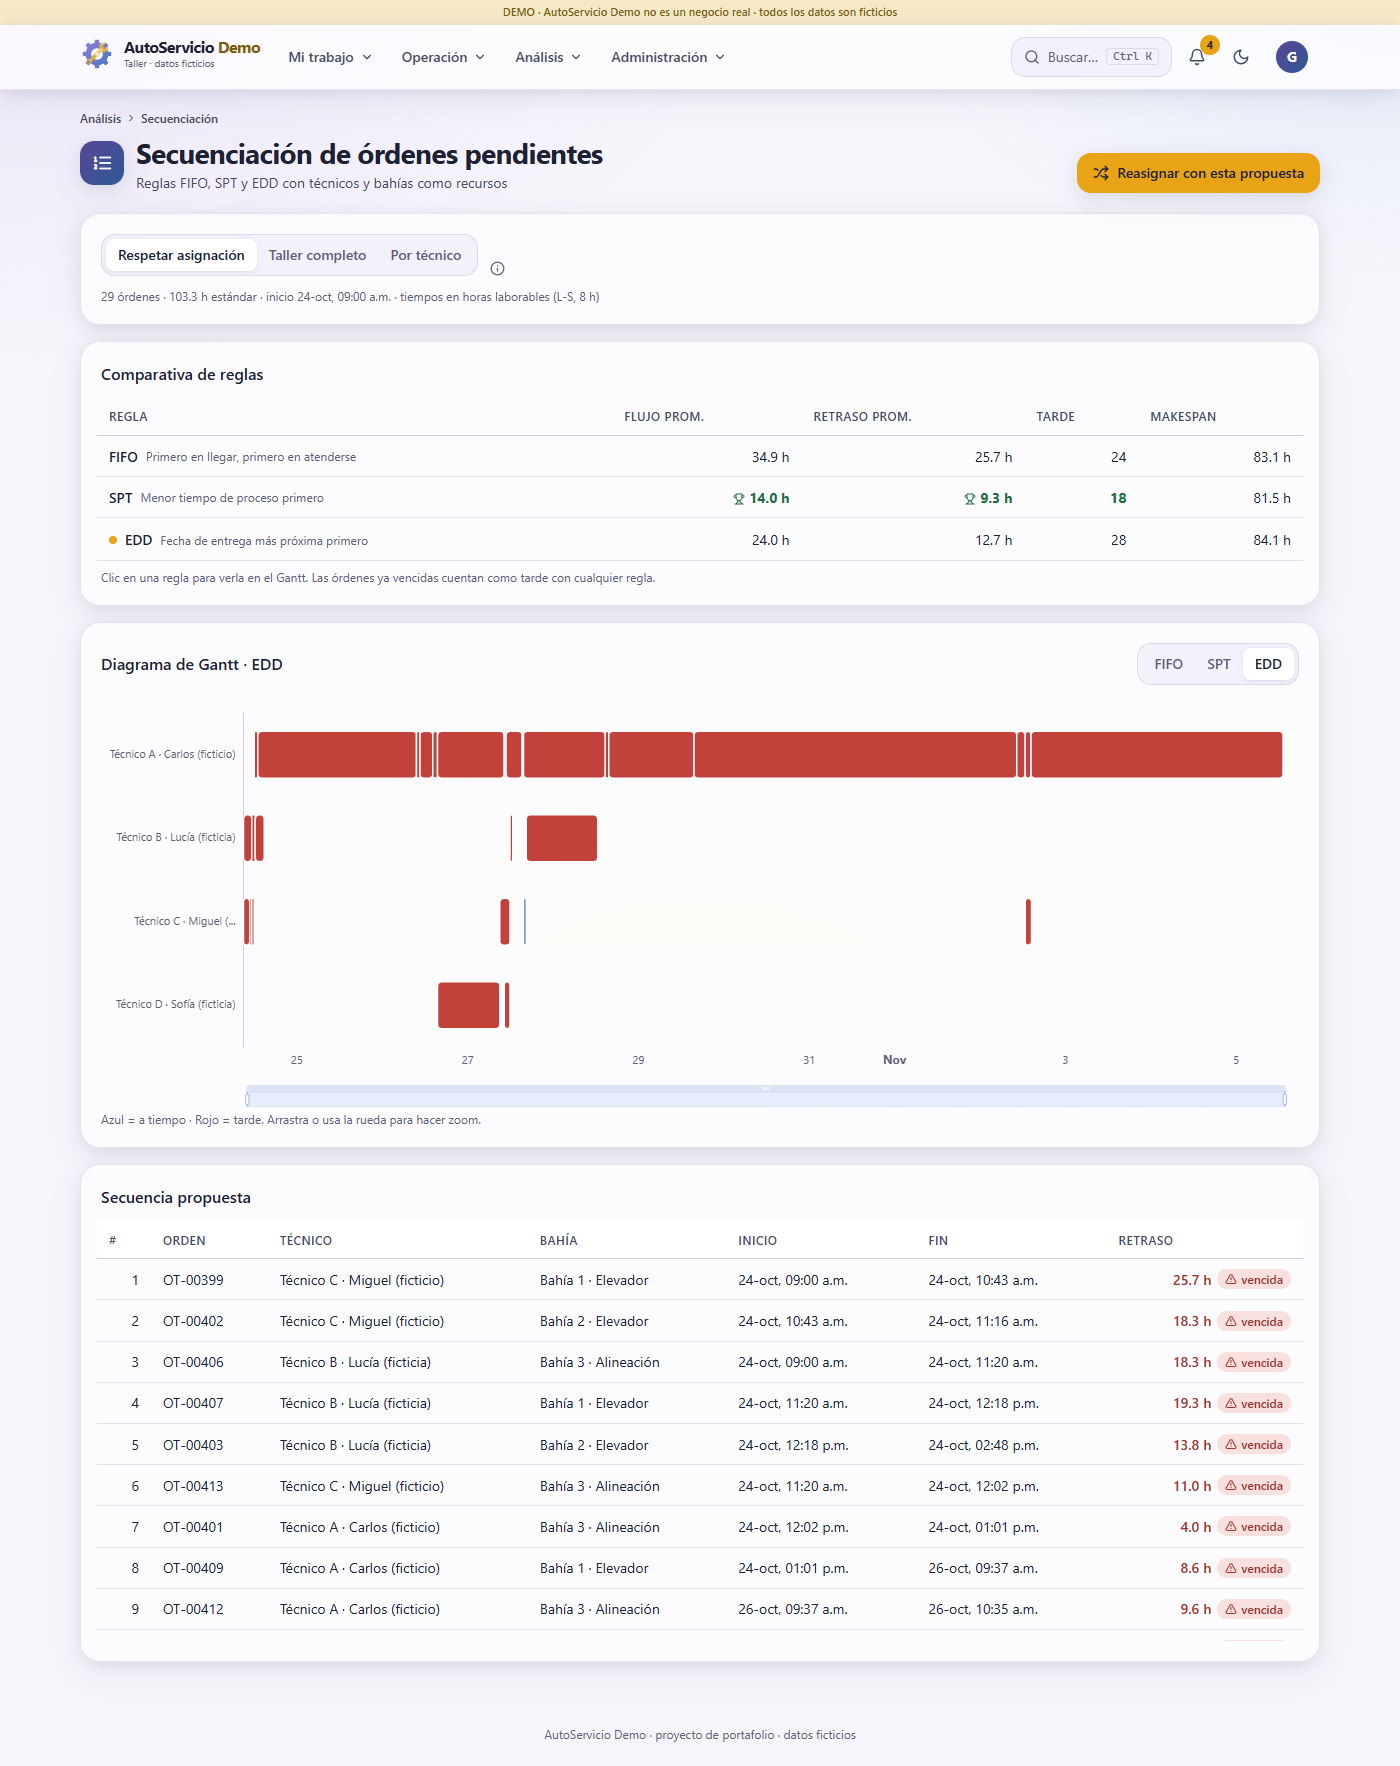
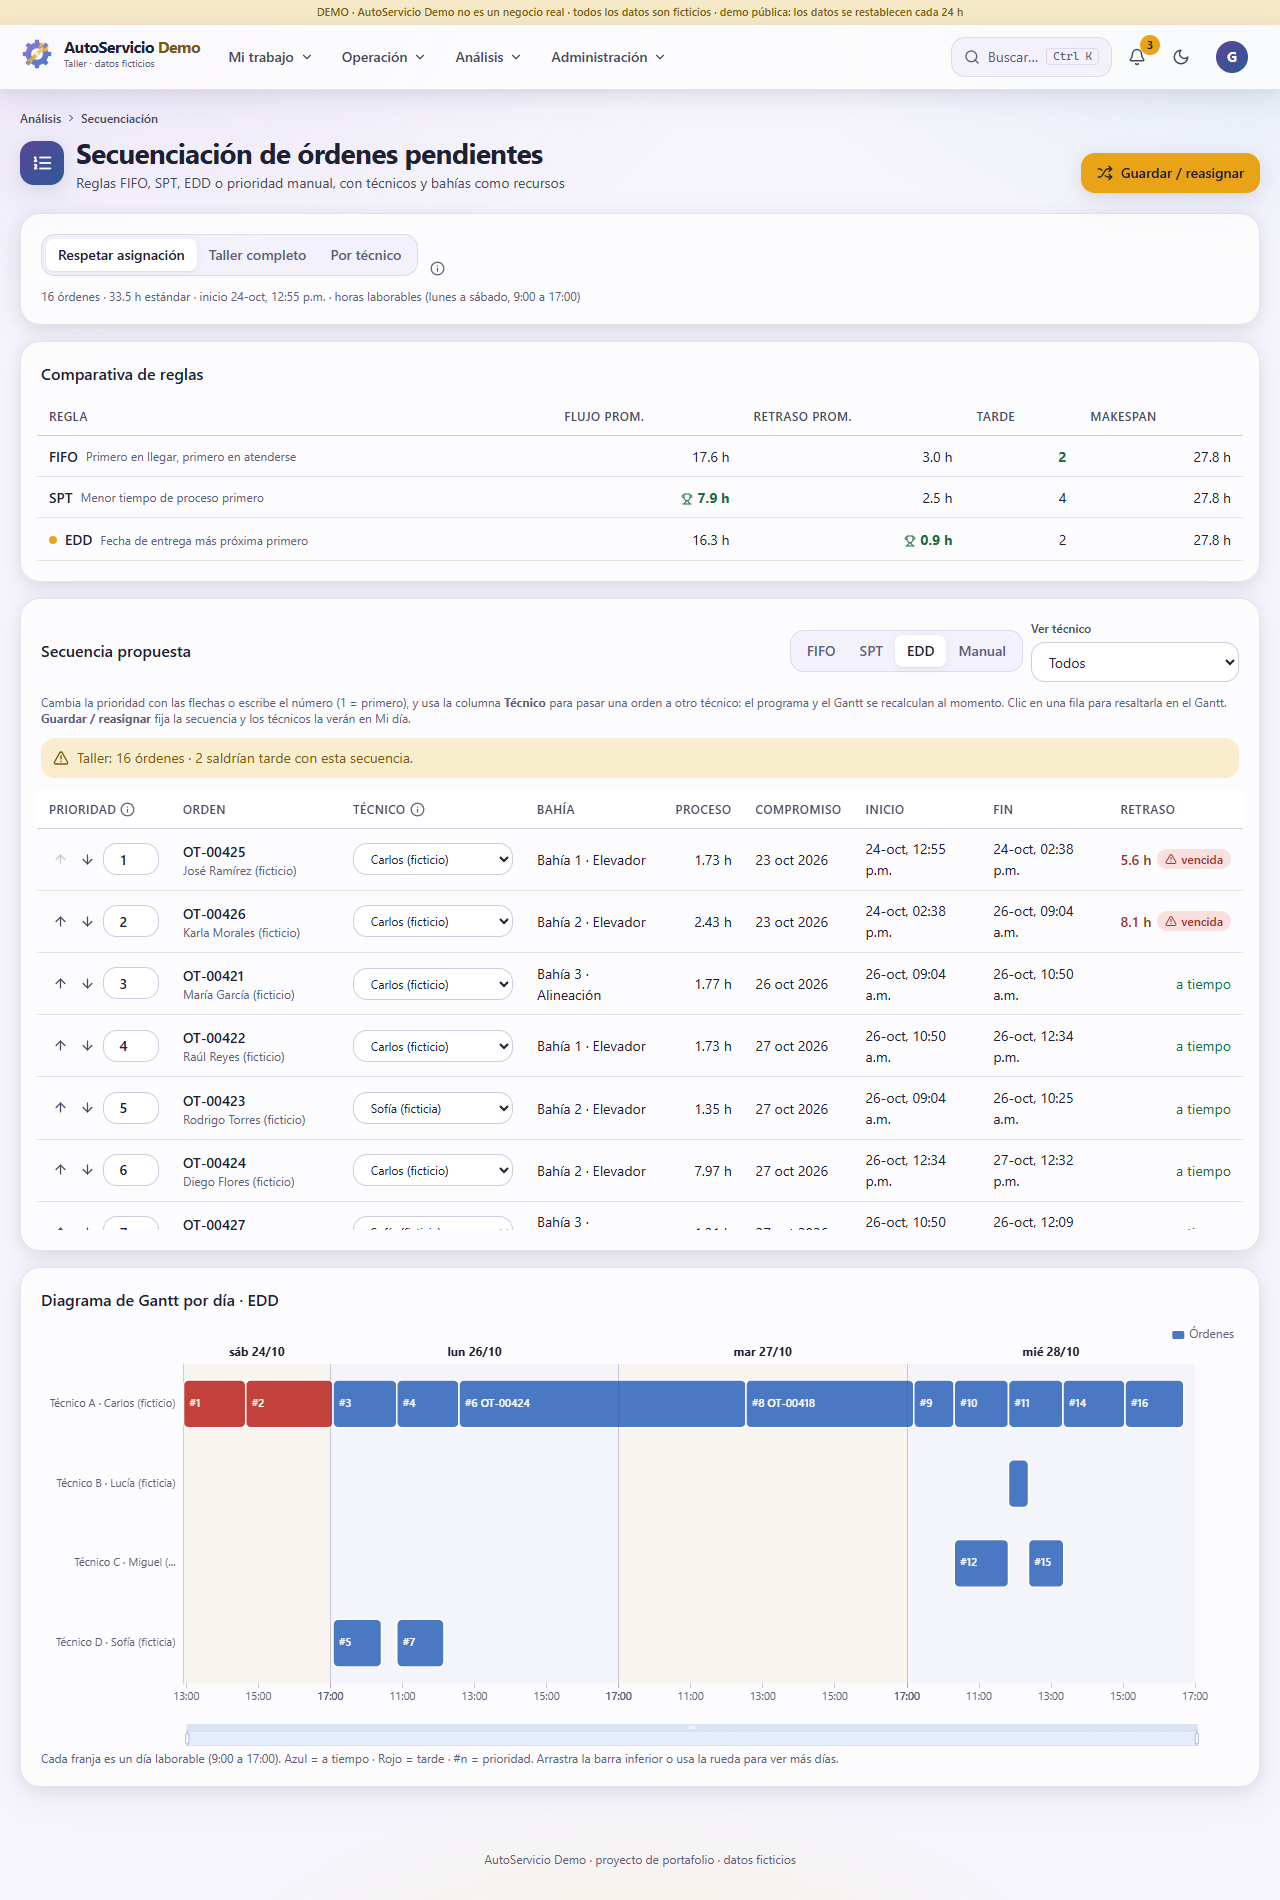
Documentación de la demo pública: README (ver la demo en línea, modo demo, secuenciación, variables, Node.js, Render), GIF del recorrido, captura de Secuenciación y guion de video

diff --git a/README.md b/README.md
@@ -14,6 +14,21 @@ La IA (Groq) es **opcional**: sin API key la app funciona completa.
 - **Producción:** un solo servicio. FastAPI sirve el frontend compilado y se publica gratis en Render.
 - La V1 (Streamlit) se conserva en el tag `v1-streamlit`.
 
+## Ver la demo en línea
+
+👉 **https://demo-taller-ia.onrender.com** *(URL pendiente de confirmar al crear el servicio en Render)*
+
+Entra con un usuario demo (todas las contraseñas son `demo123`): **gerente**, **recepcion** o **tecnico**.
+
+> ⏳ Está en el plan gratuito de Render: si nadie la usó en los últimos 15 minutos, **la primera carga
+> tarda alrededor de un minuto** mientras el servidor despierta. Después responde normal.
+>
+> 🔒 Es una **demo pública**: puedes explorar y modificar libremente; las acciones destructivas
+> (restaurar la base, regenerar datos, borrar o desactivar usuarios, cambiar contraseñas) están
+> bloqueadas, y los datos se **restablecen solos cada 24 horas**.
+
+![Recorrido de la demo](docs/capturas/recorrido.gif)
+
 ![Dashboard](docs/capturas/dashboard.png)
 
 ## Roles y usuarios demo
@@ -44,7 +59,7 @@ ocultar botones en el frontend es solo comodidad. `tests/test_api.py` recorre un
 | Dashboard | 6 KPIs con conteo animado e inclinación 3D. Clic en un KPI muestra su fórmula, cálculo y tendencia; clic en un mes, sus órdenes, ingresos por servicio, comparativo y técnicos destacados; clic en un técnico, su eficiencia, utilización, tendencia y servicios | [mes](docs/capturas/dashboard-modal-mes.png) · [oscuro](docs/capturas/dashboard-oscuro.png) |
 | Pareto | Drill-down en tres niveles con breadcrumbs: servicios → servicio (histórico mensual, técnicos, real contra estándar, gráfica de control) → órdenes → detalle de cada orden | [nivel 2](docs/capturas/pareto-nivel2.png) |
 | Capacidad | Carga contra capacidad semanal por técnico, con alerta de sobrecarga y vista de 12 semanas | — |
-| Secuenciación | FIFO, SPT y EDD con técnicos **y bahías** como recursos, comparativa, Gantt con zoom y botón **Reasignar** que aplica la propuesta | [secuenciación](docs/capturas/secuenciacion.png) |
+| Secuenciación | FIFO, SPT y EDD con técnicos **y bahías** como recursos y comparativa de reglas. En la tabla de secuencia (filtrable por técnico) asignas **prioridades a mano** (flechas o número) y **pasas órdenes a otro técnico**; el **Gantt por días laborables** se recalcula al instante y resalta la orden elegida. **Guardar / reasignar** fija prioridad, técnico, bahía y fecha, y la vista Mi día de cada técnico respeta ese orden | [secuenciación](docs/capturas/secuenciacion.png) |
 | Control estadístico | Gráfica X̄ de individuales ±3σ y gráfica **X̄-R** por subgrupos, con filtro por técnico | [control](docs/capturas/control.png) |
 | Inventario | Stock, demanda diaria, stock de seguridad, punto de reorden, EOQ, cobertura y movimientos | [inventario](docs/capturas/inventario.png) |
 | Usuarios / Configuración | Cuentas y roles; tarifa, margen, meta de eficiencia, nivel de servicio, respaldo y restauración de la base, regeneración de datos | — |
@@ -92,7 +107,7 @@ Sin key, estas funciones se ocultan con un aviso. Los errores 401, 404 (modelo r
 | Observaciones necesarias | n = (z · s / (e · x̄))², con z según el nivel de confianza y e el error relativo |
 | Cotización | Subtotal = (Σ horas estándar × tarifa + refacciones) × (1 + margen) · Total = Subtotal × 1.16 |
 | Ticket promedio | Ingresos ÷ órdenes cerradas |
-| Eficiencia | Σ horas estándar ÷ Σ horas reales |
+| Eficiencia | Σ horas estándar ÷ Σ horas reales. Se excluyen los registros con tiempo real < 25 % del estándar (suelen ser un cronómetro olvidado) y el resultado se limita a 0–200 % |
 | Utilización | Σ horas reales ÷ (recursos × días laborables × 8 h) |
 | Lead time | Promedio de (entrega − recepción) |
 | Pareto | % acumulado de mayor a menor; la clase A llega hasta el 80 % |
@@ -118,7 +133,7 @@ Para detener la app, cierra la ventana negra. Si quieres un acceso directo con e
 
 ### Desde PowerShell
 
-Requisitos: **Python 3.12**, **Node.js 20 o superior** y Git.
+Requisitos: **Python 3.12** ([python.org](https://www.python.org/downloads/windows/)), **Node.js 20 o superior** ([nodejs.org](https://nodejs.org/es/download), versión LTS) y **Git** ([git-scm.com](https://git-scm.com/download/win)).
 
 ```powershell
 git clone https://github.com/robertofranco2873/demo-taller-ia.git
@@ -157,17 +172,32 @@ cd frontend; npm run lint; npm run build  # TypeScript y ESLint sin errores
 [console.groq.com/keys](https://console.groq.com/keys). **No pongas la key en `.env.example`**,
 porque ese archivo sí se sube al repositorio.
 
+### Variables de entorno
+
+| Variable | Para qué | Por defecto |
+|---|---|---|
+| `GROQ_API_KEY` | Activa la IA (opcional). Secreta: solo en `.env` o en el panel de Render | vacía (IA oculta) |
+| `GROQ_MODEL` | Modelo de Groq | `qwen/qwen3.8-27b` |
+| `APP_TZ` | Zona horaria del taller para "hoy" y "ahora" (en la nube el servidor corre en UTC) | `America/Mexico_City` |
+| `DEMO_MODE` | `true` = demo pública: bloquea acciones destructivas y restablece la base al arrancar y cada 24 h | `false` |
+| `JWT_SECRET` | Firma de las sesiones. Si falta, se genera uno al arrancar (las sesiones se cierran al reiniciar) | aleatorio |
+| `TALLER_DB_PATH` | Ruta de la base SQLite (p. ej. un disco persistente) | `data/taller.db` |
+
 ## Deploy gratis en Render
 
-1. Sube el repositorio a GitHub.
-2. En [render.com](https://render.com) elige **New → Blueprint** y selecciona el repositorio. Render lee `render.yaml`.
-3. Render compila el `Dockerfile`: Node construye el frontend y Python 3.12 lo sirve con FastAPI.
-4. `JWT_SECRET` se genera solo. Si quieres IA, pega `GROQ_API_KEY` en *Environment*.
-5. Abre la URL `https://demo-taller-ia.onrender.com` (o la que te asigne Render).
+El repositorio incluye un **Blueprint** (`render.yaml`) y un `Dockerfile` de dos etapas con imágenes
+fijadas (`node:24.21.0-bookworm-slim` compila el frontend; `python:3.12.14-slim-bookworm` lo sirve con FastAPI).
+
+1. En [render.com](https://render.com) entra con tu cuenta de GitHub.
+2. **New → Blueprint** → elige el repositorio `demo-taller-ia` (rama `main`).
+3. Render lee `render.yaml`: un *Web Service* Docker en el **plan gratuito** con `DEMO_MODE=true`,
+   `APP_TZ=America/Mexico_City` y `JWT_SECRET` generado.
+4. Te pedirá el valor de **`GROQ_API_KEY`** (es `sync: false`, nunca está en el repo). Pégala, o déjala vacía para la demo sin IA.
+5. **Apply**. El primer build tarda unos 5–10 minutos. Cuando el estado diga *Live*, abre la URL.
 
 Notas del plan gratis:
-- El servicio se duerme tras 15 minutos sin uso; el primer acceso tarda unos 30 a 60 segundos.
-- El disco es temporal: al reiniciarse, la base vuelve a los datos ficticios. Para conservar cambios, usa **Configuración → Descargar respaldo / Restaurar**, o monta un disco persistente y apunta `TALLER_DB_PATH` a él.
+- El servicio se duerme tras 15 minutos sin uso; el primer acceso tarda alrededor de un minuto.
+- El disco es temporal: con `DEMO_MODE=true` la base se regenera al arrancar y cada 24 h, que es justo lo que quiere una demo pública.
 
 ## Estructura
 
@@ -178,20 +208,22 @@ src/            Lógica pura: time_study, quote, kpis, analytics, pareto, capaci
 frontend/       React + Vite + TS. src/styles/tokens.css (design tokens), lib/, components/,
                 layout/ (barra superior, Ctrl+K), pages/
 tests/          pytest: fórmulas, base de datos, API, permisos por rol e IA simulada
-docs/           pendientes-v2.md y capturas
+docs/           reporte-estado.md, guion-video.md, pendientes-v2.md y capturas (incl. recorrido.gif)
 Dockerfile · render.yaml
 ```
 
 ## Datos ficticios
 
-`src/seed.py` (semilla fija 42) genera unos 6 meses hasta la fecha actual:
+`src/seed.py` (semilla fija 42) genera unos 6 meses **relativos a hoy** (en la zona `APP_TZ`), así que
+al abrir la demo siempre hay historial reciente, una orden en curso por técnico, solo 2 a 4 vencidas y
+algunas listas para entregar:
 
 - 26 servicios con pasos y 30 refacciones con stock y tiempo de entrega.
 - Unas 430 órdenes.
 - 4 técnicos con eficiencias distintas.
 - Estacionalidad.
 - Colas por técnico y bahía, retrasos por refacciones y retrabajos.
-- Un pico de demanda reciente que genera backlog y sobrecarga.
+- Un pico de demanda reciente que genera backlog y algo de sobrecarga.
 - Bitácora del cronómetro, movimientos de inventario y usuarios demo.
 
 ---

diff --git a/docs/guion-video.md b/docs/guion-video.md
@@ -1,0 +1,20 @@
+# Guion de video (90 s) · AutoServicio Demo
+
+Formato sugerido: 1920×1080, grabación de pantalla con voz. Para el segmento del técnico, usa la
+vista móvil del navegador (F12 → modo dispositivo, 390 px). Abre la demo un minuto antes para que
+Render "despierte".
+
+| Tiempo | Pantalla | Qué hacer | Voz (aprox.) |
+|---|---|---|---|
+| 0:00–0:08 | Login | Mostrar el aviso de demo y los tres botones de usuario | "AutoServicio Demo es un taller ficticio donde aplico Ingeniería Industrial. Hay tres roles, y los permisos se validan en el servidor." |
+| 0:08–0:28 | **Recepción** → Cotizador | Escribir *"hace ruido al frenar y vibra el volante"* → **Sugerir servicios** → mostrar el total → **PDF** → **Mensaje de WhatsApp** | "La IA solo interpreta el problema y sugiere servicios del catálogo. El precio lo calcula una fórmula: horas estándar por tarifa, más refacciones, margen e IVA." |
+| 0:28–0:48 | **Técnico** (vista móvil) → Mi día | **Iniciar** → mostrar el cronómetro → **Ficha** del servicio → **Terminar** (confeti) | "El técnico ve sus órdenes por prioridad, mide su tiempo real con botones grandes y consulta los pasos de cada servicio. Así se alimenta la eficiencia." |
+| 0:48–1:05 | **Gerente** → Dashboard | Pasar el mouse por un KPI (globo con la fórmula) → clic en un mes → clic en un técnico | "Cada KPI explica su fórmula. Con un clic veo el detalle de un mes o de un técnico." |
+| 1:05–1:15 | Pareto | Clic en la primera barra → gráfica de control → **Ver órdenes** | "El Pareto baja hasta el servicio, su gráfica de control y cada orden." |
+| 1:15–1:25 | Secuenciación | Cambiar una prioridad con ▲ → pasar una orden a otro técnico → ver el Gantt por días | "Comparo FIFO, SPT y EDD, ajusto prioridades y técnicos a mano, y el Gantt se recalcula al instante." |
+| 1:25–1:30 | Ctrl+K y modo oscuro | Abrir la paleta, buscar "balatas" y cambiar el tema | "Hecho con React y FastAPI, publicado gratis en Render. Datos ficticios; el código está en mi GitHub." |
+
+**Consejos**
+- Ensaya el recorrido dos veces: el modo demo bloquea las acciones destructivas, así que no puedes "romper" nada.
+- Si la IA tarda o responde 429 (límite gratuito de Groq), espera un minuto; el resto de la app no depende de ella.
+- Termina con el enlace del repositorio y el de la demo en pantalla.
